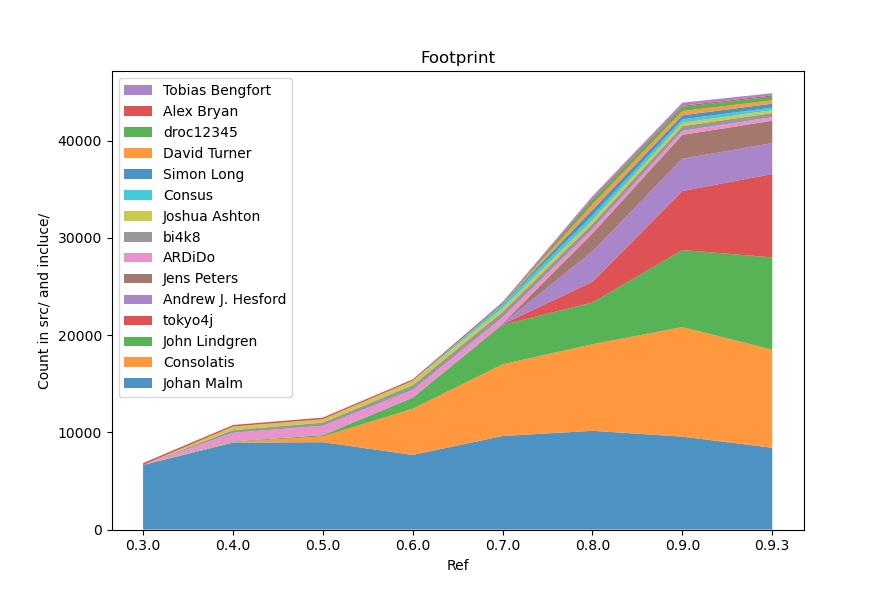
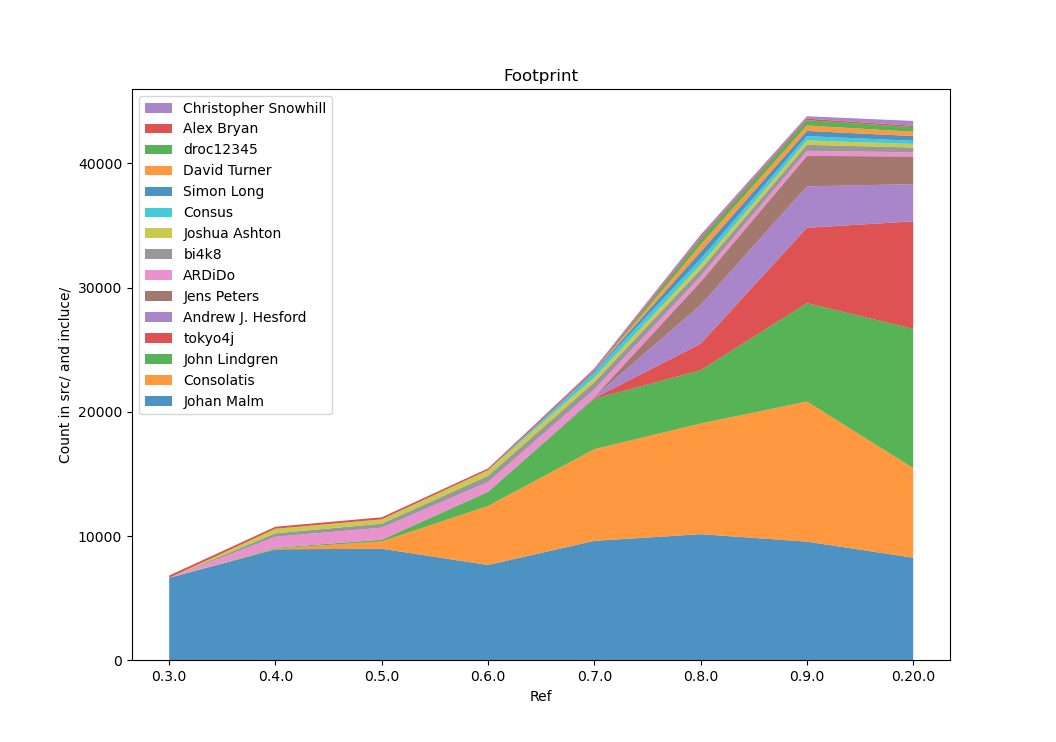
Update at 0.20.0

diff --git a/plot.py b/plot.py
@@ -95,7 +95,7 @@ def main():
     graph = Graph()
 
     tags = args.tags.split(' ')
-    for t in sorted(tags[::-1]):
+    for t in sorted(tags, key=lambda s: [int(x) for x in s.split('.')]):
         if not t:
             continue
         graph.add_ref(t)
